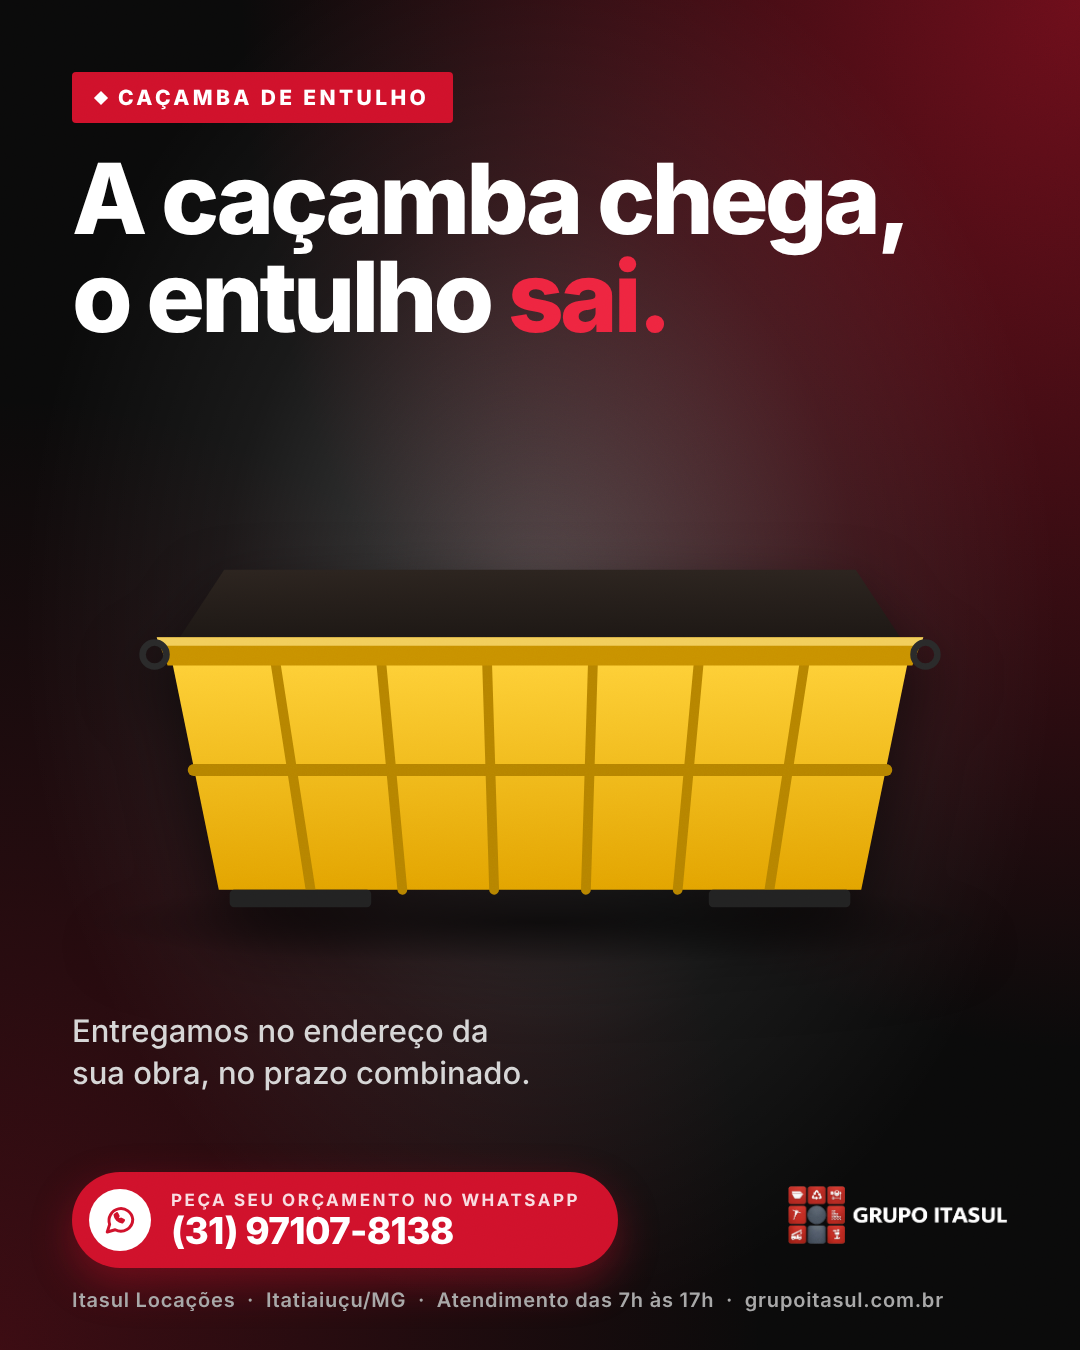
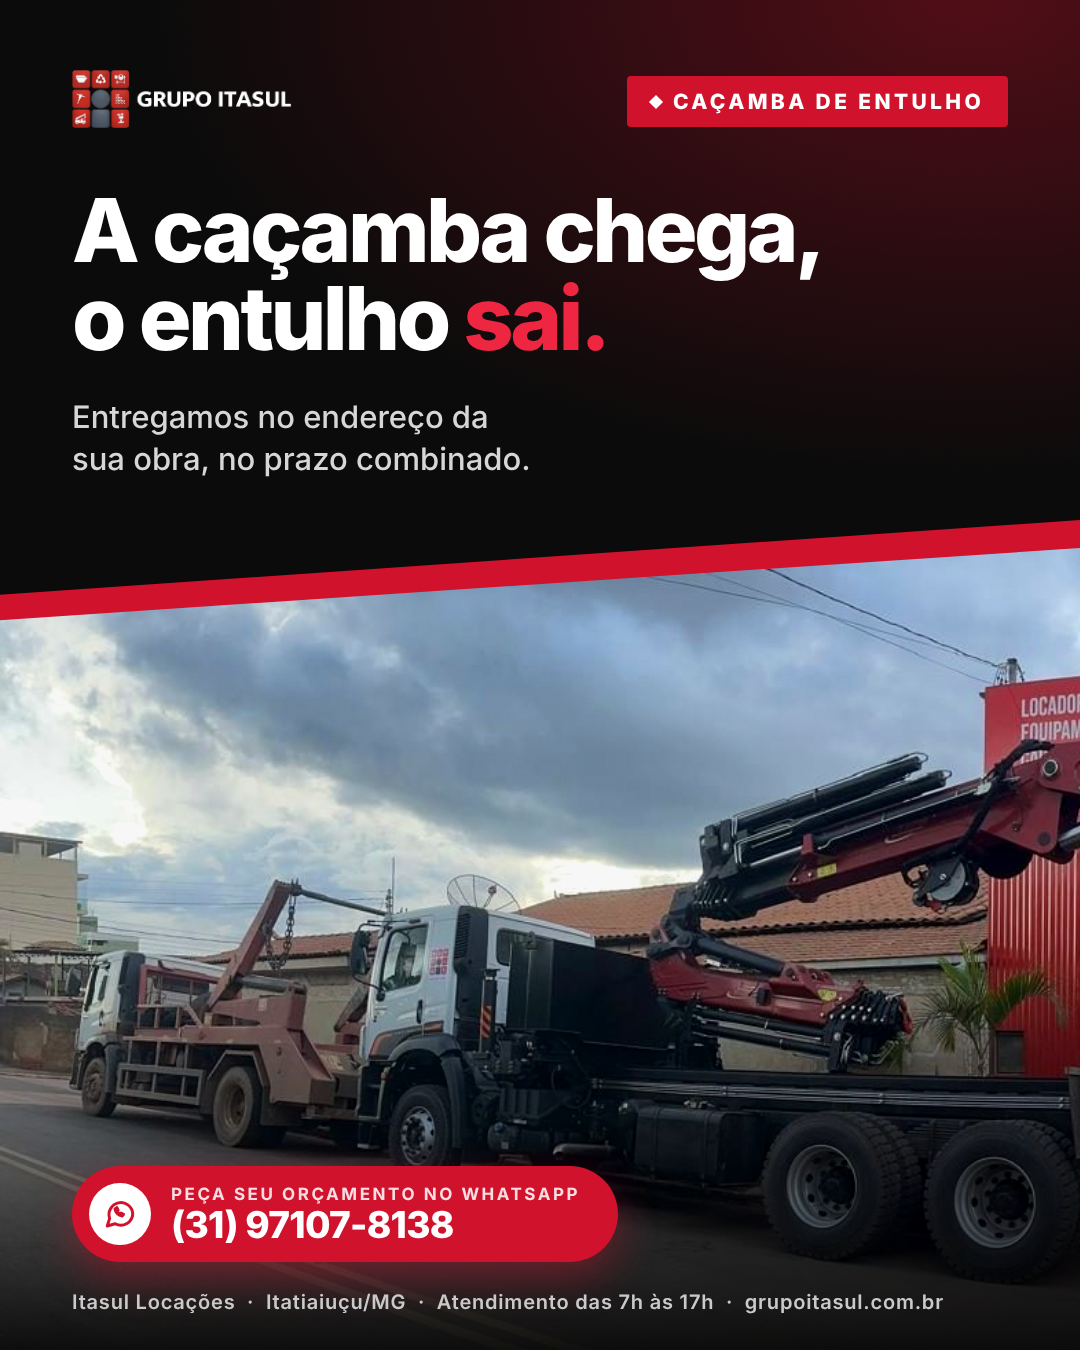
Anúncios de caçamba com as fotos reais do site (10 e 11)
Claude-Session: https://claude.ai/code/session_0187txUQRRPDC7DAaoppsHBi

diff --git a/publicidade/BRIEFING.md b/publicidade/BRIEFING.md
@@ -59,7 +59,7 @@ Arquivos: `anuncio-01` a `anuncio-12` (feed) e `stories/story-01` a `story-12` (
 - Sugestão de teste: rodar os três pôsteres de cada serviço juntos e deixar o Meta pausar os de menor clique em 5 a 7 dias.
 
 ## Anúncios 10 a 12 (caçamba) e Stories
-- **10 · A caçamba chega, o entulho sai.** Ilustração própria da caçamba estacionária, vazia, em fundo preto e vermelho.
-- **11 · Encheu? A gente leva.** A mesma caçamba cheia de entulho (tijolos, blocos, madeira).
+- **10 · A caçamba chega, o entulho sai.** Foto real do site: caminhão de caçamba estacionária (à esquerda) ao lado do Munck, em frente à fachada.
+- **11 · Encheu? A gente leva.** Foto real do site: caçamba basculada, operador da equipe e entulho de obra no chão.
 - **12 · O que pode ir na caçamba?** Lista "Pode / Não pode", baseada na lista que já está na página de Caçambas do site, com itens de segurança comuns no setor (química, pneus, amianto).
 - **Stories 9:16:** os mesmos textos, com o conteúdo reposicionado. Os 250 px do topo e os cerca de 350 px de baixo ficam livres, porque o Instagram cobre essas faixas com o nome do perfil e com a caixa de resposta.
